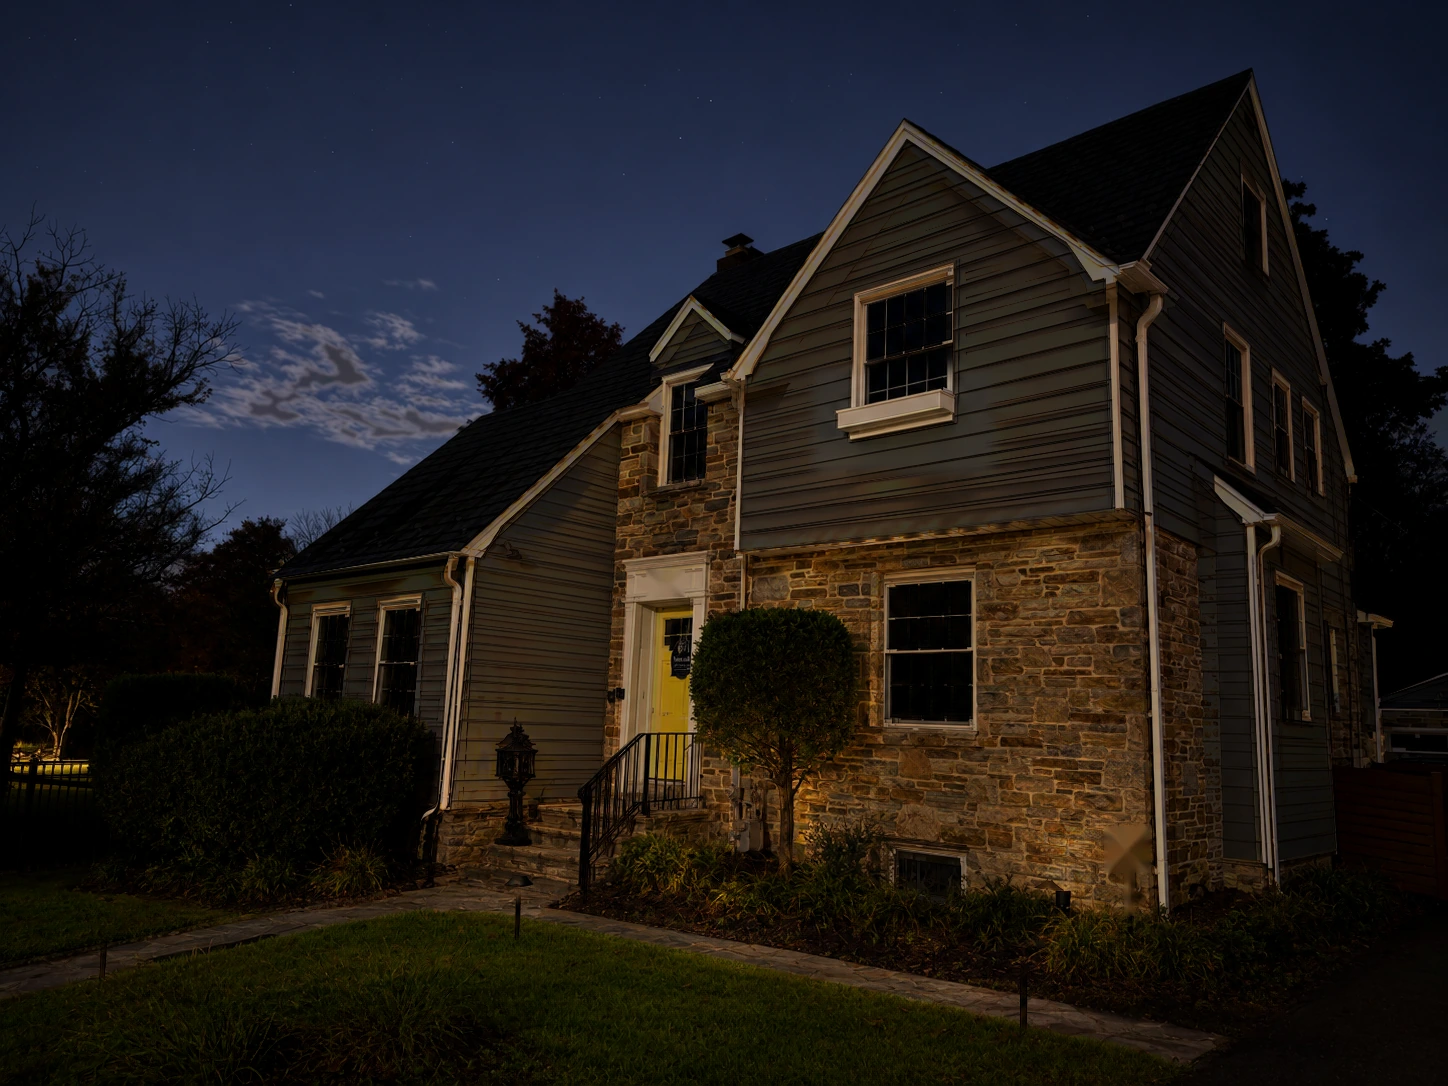
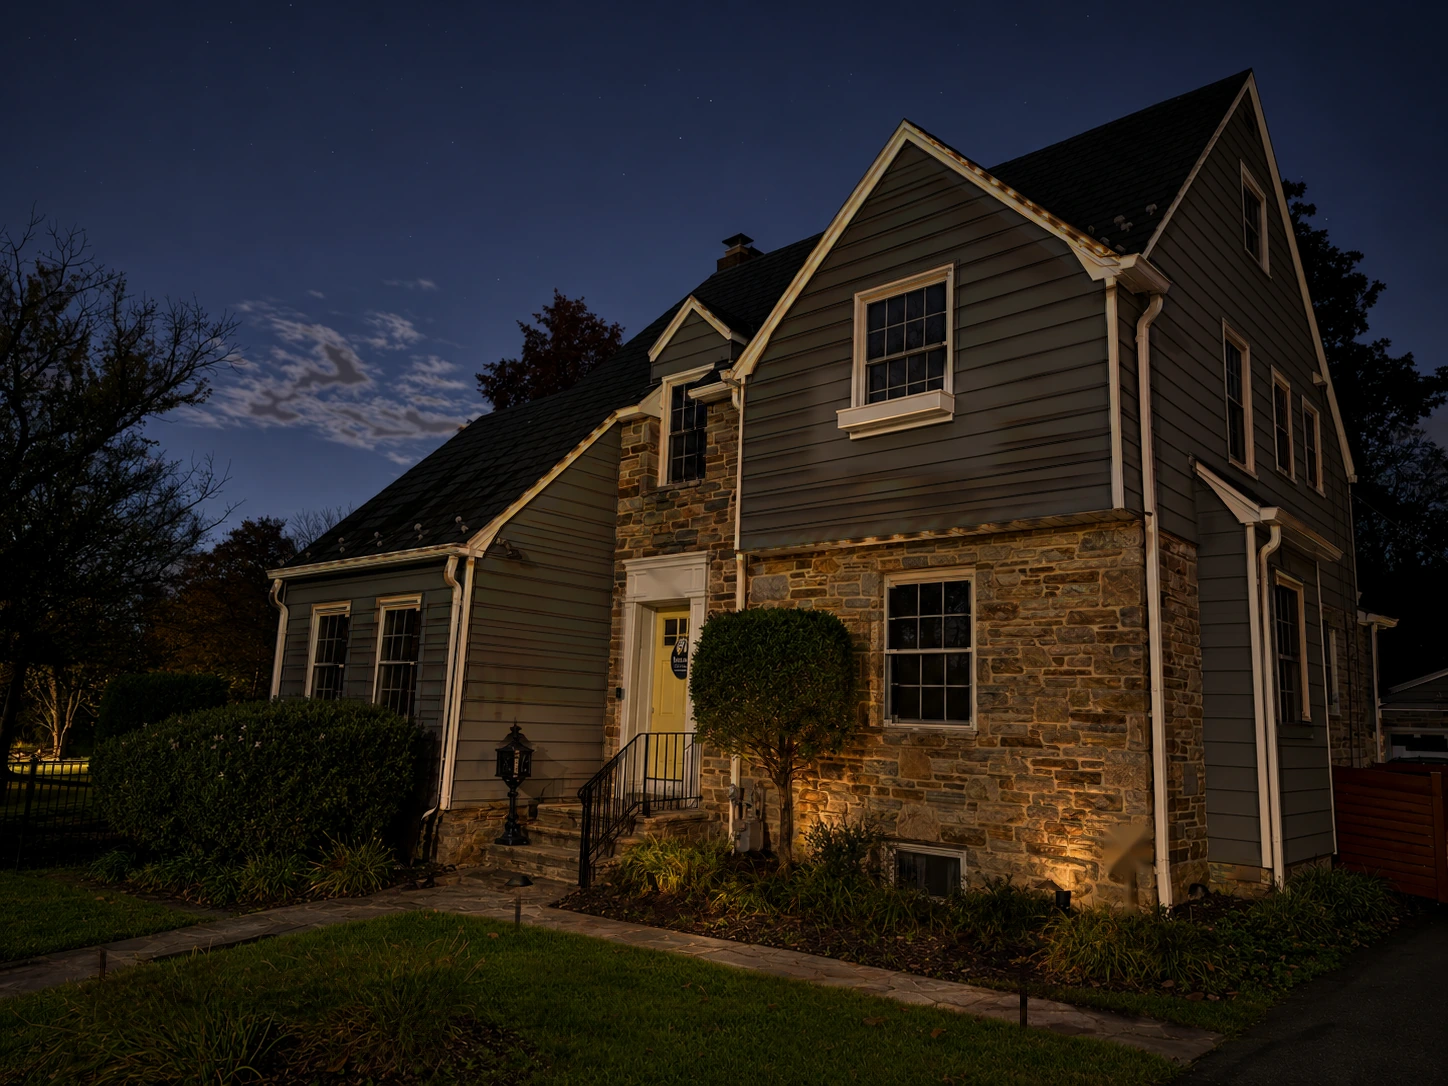
Crisp siding from single-source base and mockup-in-mask layers; mailbox never lights; markers removed
Claude-Session: https://claude.ai/code/session_01477XfrkwMA9gQYivJ4i7xH

diff --git a/src/scene/PhotoStage.tsx b/src/scene/PhotoStage.tsx
@@ -93,26 +93,28 @@ void main() {
     vec3 base = texture2D(tBase, t).rgb;
     vec4 map = texture2D(tMap, t);
     float sn = map.b * uSnow;
-    // Settled snow keeps the shading of what lies under it.
-    base = mix(base, vec3(0.085, 0.10, 0.15) * (0.55 + 6.0 * luma(base)), sn);
 
-    vec3 hol = texture2D(tHol, t).rgb;
+    // Each layer is the mockup for that lighting type plus a mask of where
+    // it is lit. Inside the mask the mockup itself is shown; where several
+    // are on, the brighter one wins, as overlapping light would.
+    vec4 lp = texture2D(tPath, t), ls = texture2D(tStone, t), le = texture2D(tEave, t), lh = texture2D(tHol, t);
     if (uPalN > 0.5) {
-      // Recolour the string lights bulb by bulb; glow further from a bulb
-      // takes the average of the palette.
+      // Recolour the string lights bulb by bulb; spill away from a bulb
+      // stays close to neutral so white trim is never blotched.
+      vec3 glow = max(lh.rgb - base, 0.0);
+      float l = luma(glow);
       vec3 own = uPal[int(mod(floor(map.r * 3.0 + 0.5), uPalN))];
       vec3 avg = (uPal[0] + uPal[1] + uPal[2] + uPal[3]) * 0.25;
-      float l = luma(hol);
-      // Away from the bulbs the spill stays close to neutral, so white trim
-      // is never blotched with colour.
-      hol = mix(mix(vec3(l), avg * l * 1.3, 0.45), own * l * 2.2 + vec3(1.0) * smoothstep(0.55, 1.0, l) * 0.5, map.g * map.g);
+      glow = mix(mix(vec3(l), avg * l * 1.3, 0.45), own * l * 2.2 + vec3(1.0) * smoothstep(0.55, 1.0, l) * 0.5, map.g * map.g);
+      lh.rgb = min(lh.rgb, base) + glow;
     }
-    vec3 light = max(max(texture2D(tPath, t).rgb * uOn.x, texture2D(tStone, t).rgb * uOn.y),
-                     max(texture2D(tEave, t).rgb * uOn.z, hol * uOn.w));
-    // Snow throws light back.
-    light *= 1.0 + 1.2 * sn;
-
-    nightCol = base + light;
+    vec4 on = min(uOn, vec4(1.0));
+    vec3 lit = max(max(lp.rgb * on.x, ls.rgb * on.y), max(le.rgb * on.z, lh.rgb * on.w));
+    float w = max(max(lp.a * on.x, ls.a * on.y), max(le.a * on.z, lh.a * on.w));
+    nightCol = mix(base, lit, w) * (1.0 + 0.08 * max(max(uOn.x, uOn.y), max(uOn.z, uOn.w)) * w - 0.08 * w);
+    // Settled snow keeps the shading of what lies under it and throws light back.
+    float nl = luma(nightCol);
+    nightCol = mix(nightCol, mix(vec3(0.085, 0.10, 0.15) * (0.55 + 6.0 * nl), nightCol * 2.2 + 0.02, smoothstep(0.02, 0.2, nl) * w), sn);
     nightCol += texture2D(tReal, t).rgb * WARM * handLamp(p) * map.a * 1.4;
   }
 

diff --git a/tools/build_night_layers.py b/tools/build_night_layers.py
@@ -1,7 +1,7 @@
 import cv2, numpy as np
 from PIL import Image, ImageDraw
 U='/mnt/user-data/uploads/'; OUT='/home/claude/regent-exterior/public/home2/'
-N={'path':'73f79c83','stone':'1ed70ea6','eave':'7c17b776','holiday':'2019fc99'}
+N={'path':'73f79c83','stone':'1ed70ea6','eave':'bcf14a73','holiday':'2019fc99'}
 W,H=1448,1086
 def load(p): return np.array(Image.open(p).convert('RGB').resize((W,H),Image.LANCZOS))
 m={k:load(U+v+'-image.png') for k,v in N.items()}
@@ -15,12 +15,19 @@ lin=lambda a:(a.astype(np.float32)/255)**2.2
 enc=lambda a:(np.clip(a,0,1)**(1/2.2)*255).astype(np.uint8)
 L={k:lin(v) for k,v in m.items()}
 # Unlit base: darkest value any mockup shows for each pixel.
-base=np.minimum.reduce(list(L.values()))
+# The soffit mockup (darker siding) is left out of the base.
+mn=np.minimum.reduce([L['path'],L['stone'],L['holiday']])
+# One crisp source for the unlit house: the stone mockup, except where its own
+# uplights fall, which come from the darkest of the set. A per-pixel minimum
+# everywhere smeared the siding laps (owner caught this).
+lumf=lambda a:a@np.array([.2126,.7152,.0722],np.float32)
+own=cv2.GaussianBlur(np.clip((lumf(L['stone'])-lumf(mn)-0.004)/0.02,0,1),(0,0),6)
+own=np.clip(own*2.5,0,1)[...,None]
+base=L['stone']*(1-own)+mn*own
 # Where mockups disagree about objects (door, window box), keep one source.
 for (x0,y0,x1,y1) in [(628,596,712,790),(815,372,990,470)]:
     a=np.zeros((H,W),np.float32); cv2.rectangle(a,(x0,y0),(x1,y1),1,-1); a=cv2.GaussianBlur(a,(0,0),6)[...,None]
-    src=np.minimum(L['stone'],L['path'])
-    base=base*(1-a)+src*a
+    base=base*(1-a)+L['stone']*a
 # Sky from the stone mockup.
 s=m['stone']; hsv=cv2.cvtColor(s,cv2.COLOR_RGB2HSV)
 cand=((s[...,2].astype(int)>s[...,0].astype(int)+10)&(hsv[...,2]>25)).astype(np.uint8)
@@ -33,12 +40,16 @@ lum=lambda a:a@np.array([.2126,.7152,.0722],np.float32)
 layers={}
 for k in L:
     d=np.clip(L[k]-base,0,None)*(1-sky)
-    w=np.clip((lum(d)-0.006)/0.03,0,1); w=w*w*(3-2*w)
-    d*=w[...,None]
-    if k=='eave':  # no window box popping in with the soffit lights
-        a=np.zeros((H,W),np.float32); cv2.rectangle(a,(815,385),(990,470),1,-1); d*=(1-cv2.GaussianBlur(a,(0,0),5))[...,None]
-    layers[k]=d
-    Image.fromarray(enc(d)).save(OUT+f'light-{k}.webp',quality=90,method=6)
+    # Lit mask: where this mockup is clearly brighter than the unlit house.
+    # Inside it the page shows the mockup itself, so lap shadows and stone
+    # joints under the light stay exactly as the mockup drew them.
+    w=np.clip((cv2.GaussianBlur(lum(d),(0,0),3)-0.004)/0.022,0,1); w=w*w*(3-2*w)
+    w=cv2.GaussianBlur(w,(0,0),2)*(1-sky[...,0])
+    if True:  # the post by the steps is a mailbox, not a lantern: it never lights, in any layer
+        a=np.zeros((H,W),np.float32); cv2.ellipse(a,(516,772),(70,82),0,0,360,1,-1); w*=(1-cv2.GaussianBlur(a,(0,0),9))
+    layers[k]=d*w[...,None]
+    rgba=np.dstack([enc(L[k]),(w*255).astype(np.uint8)])
+    Image.fromarray(rgba,'RGBA').save(OUT+f'light-{k}.webp',quality=90,method=6,exact=True)
 Image.fromarray(enc(base)).save(OUT+'base.webp',quality=92,method=6)
 Image.fromarray(real).save(OUT+'real.webp',quality=86,method=6)
 # Holiday bulbs: local maxima of the holiday layer; each gets a colour index.
